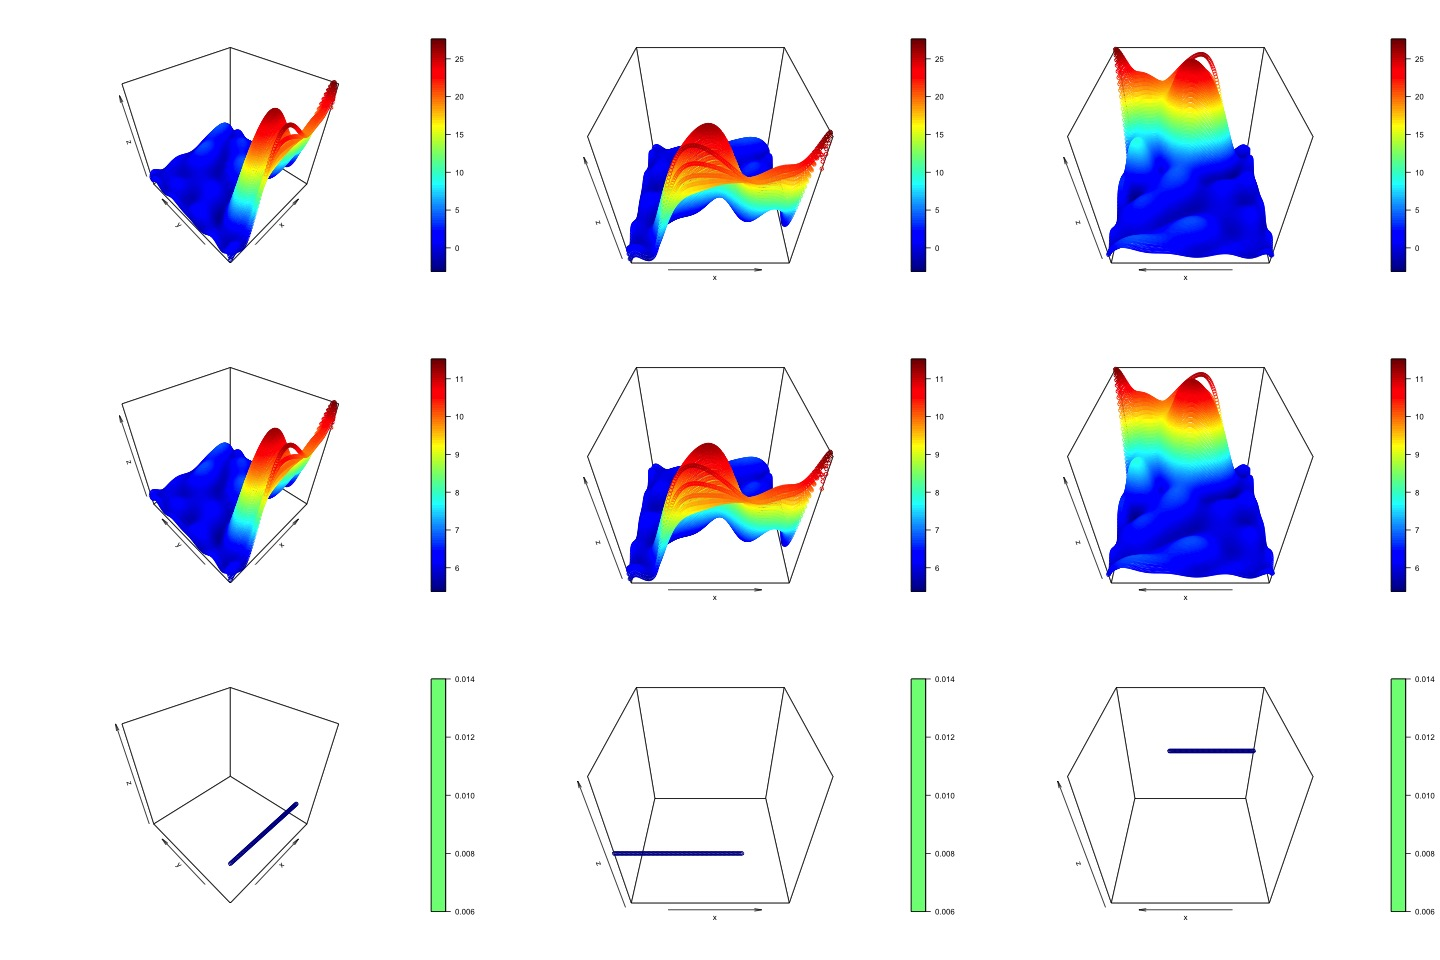
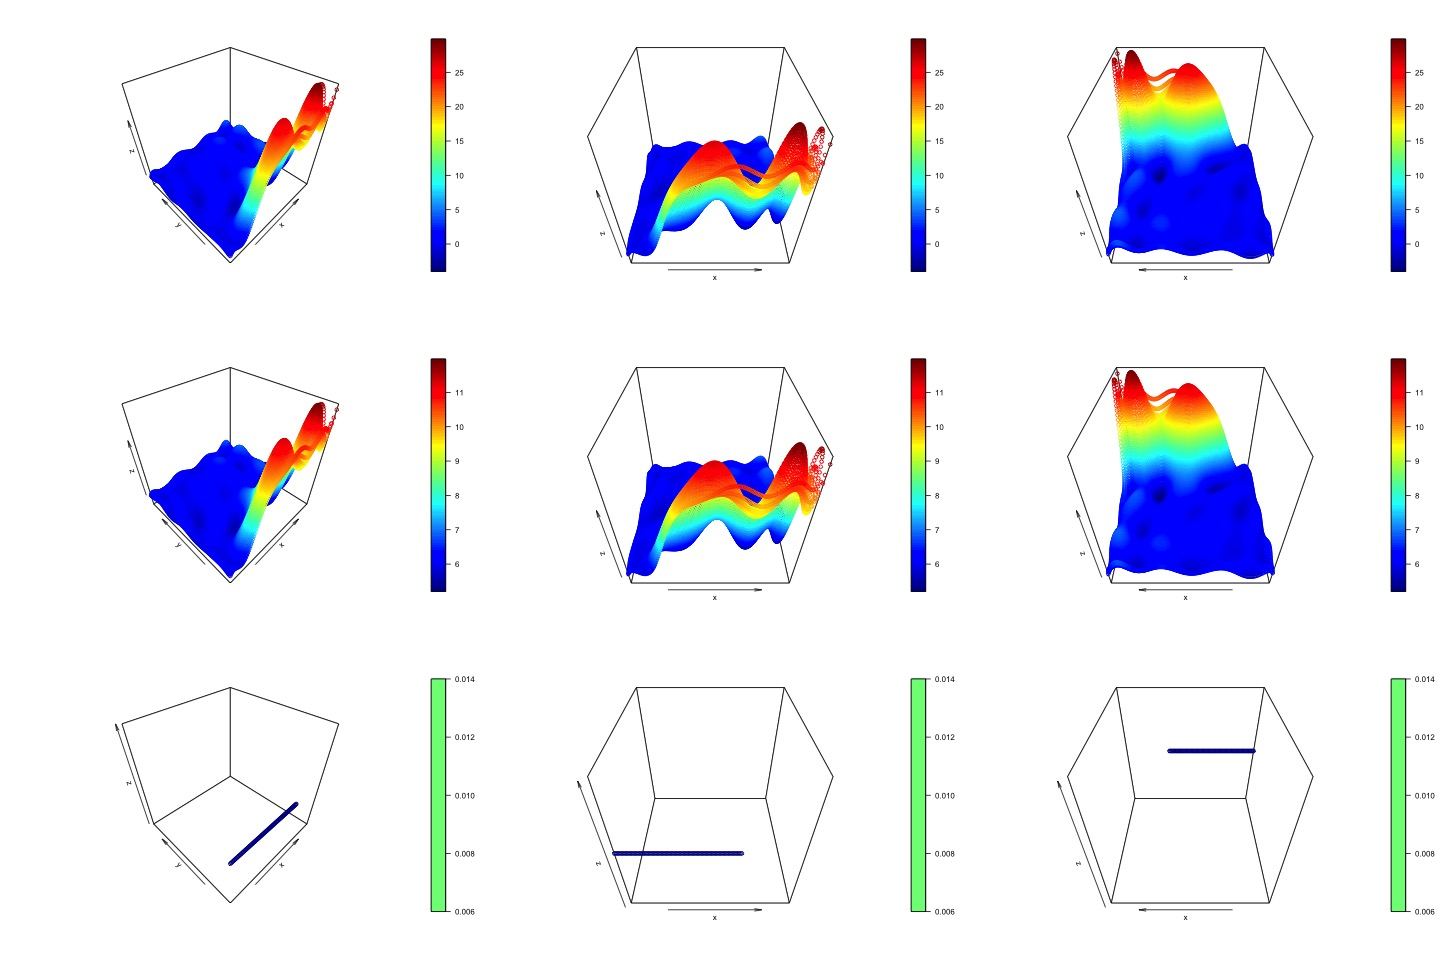
ANN and Cai are now working

diff --git a/src/parameters.cpp b/src/parameters.cpp
@@ -25,10 +25,10 @@ double *value_coef;
 double *policy_coef;
 double *price_coef;
 int **alpha_coef;
-std::string approx_type = "cai";
-std::string cai("cai");
-std::string cheb("cheb");
-std::string ann("ann");
+std::string approx_type;
+std::string cai;
+std::string cheb;
+std::string ann;
 
 
 const size_t choose(size_t n, size_t k){
@@ -41,9 +41,13 @@ const size_t choose(size_t n, size_t k){
 }
 
 __attribute__((constructor)) void initialize(){
+    approx_type = "ann";
+    cai = "cai";
+    cheb = "cheb";
+    ann = "ann";
     d = 2;
     Nmax = 100;
-    num_of_knots = 10;
+    num_of_knots = 12;
     S = num_of_knots*num_of_knots;
     num_of_test = 150;
     S_test = num_of_test*num_of_test;
@@ -61,7 +65,7 @@ __attribute__((constructor)) void initialize(){
     xmax = new double[d];
     xmax[0] = 18.0; xmax[1] = 18.0;
 
-    if(approx_type.compare(cai)==0 || approx_type.compare(cheb)==0){
+    // if(approx_type.compare(cai)==0 || approx_type.compare(cheb)==0){
 	while(choose(coef_degree+1 + d, d)<pow(num_of_knots, d)){
 	    coef_degree += 1;
 	}
@@ -90,10 +94,10 @@ __attribute__((constructor)) void initialize(){
 		}
 	    }
 	}
-    }
-    else{
-	printf("Value Function Approximation with ANN\n");
-    }
+    // }
+    // else{
+    // 	printf("Value Function Approximation with ANN\n");
+    // }
 
     // value_coef_degree = 2*num_of_knots - 1;
     // value_coef_degree = policy_coef_degree;

diff --git a/src/fitting.cpp b/src/fitting.cpp
@@ -13,7 +13,7 @@ using net_type = loss_mean_squared<fc<1,
 					// fc<5,
 					// fc<5,
 					// htan<l2normalize<
-					  htan<fc<50,
+					  htan<fc<144,
 					  input<matrix<float,0,1>>
 					  >>>>;
 net_type net;
@@ -77,6 +77,7 @@ double predict(double *state){
 	return V_hat(state, value_coef, alpha_coef, num_of_coef);
     }
     else if(approx_type.compare(ann)==0){
+	printf("hello\n");
 	std::vector<matrix<float, 0, 1>> sample(1);
 	sample[0] = {(state[0] - xmin[0])/(xmax[0] - xmin[0]),
 		     (state[1] - xmin[1])/(xmax[1] - xmin[1])};
@@ -187,15 +188,15 @@ void fitting(double **xy_data, double *v_hat, double *dz_data0, double *dz_data1
 	    samples[i] = {(xy_data[i][0] - xmin[0])/(xmax[0] - xmin[0]),
 			  (xy_data[i][1] - xmin[1])/(xmax[1] - xmin[1])};
 	    labels[i] = {v_hat[i]};
-	    // std::cout << "i=" << i << "\tsample=(" << samples[i](0,0) << ", "
-	    // 	      << samples[i](1,0) << ")\t\tlabel=" << labels[i] << std::endl;
+	    std::cout << "i=" << i << "\tsample=(" << samples[i](0,0) << ", "
+	    	      << samples[i](1,0) << ")\t\tlabel=" << labels[i] << std::endl;
 	}
 
 	// trainer();
 	dnn_trainer<net_type> trainer(net);
 	trainer.set_learning_rate(0.1);
 
-	for(int i=0; i<10000; i++)
+	for(int i=0; i<100000; i++)
 	    trainer.train_one_step(samples, labels);
 	trainer.get_net();
 	std::vector<matrix<float, 0, 1>> sample(1);

diff --git a/src/main.cpp b/src/main.cpp
@@ -103,10 +103,10 @@ void plotting(double **xy_knots, double *value, size_t k){
         xy_test[i][1] = y_test[i / num_of_test];
     }
     for(size_t i=0; i<S_test; i++){
-        v_test[i] = V_hat(xy_test[i], value_coef, alpha_coef, num_of_coef);// predict(xy_test[i]);
+        v_test[i] = predict(xy_test[i]); // V_hat(xy_test[i], value_coef, alpha_coef, num_of_coef);
 	// V_hat(xy_test[i], value_coef, alpha_coef, num_of_coef);
         p_test[i] = V_hat(xy_test[i], price_coef, alpha_coef, num_of_coef);
-        inv_test[i] = V_hat(xy_test[i], policy_coef, alpha_coef, num_of_coef);
+	inv_test[i] = V_hat(xy_test[i], policy_coef, alpha_coef, num_of_coef);
     }
     for(size_t i=0; i<S_test; i++){
         double x1 = 0;
